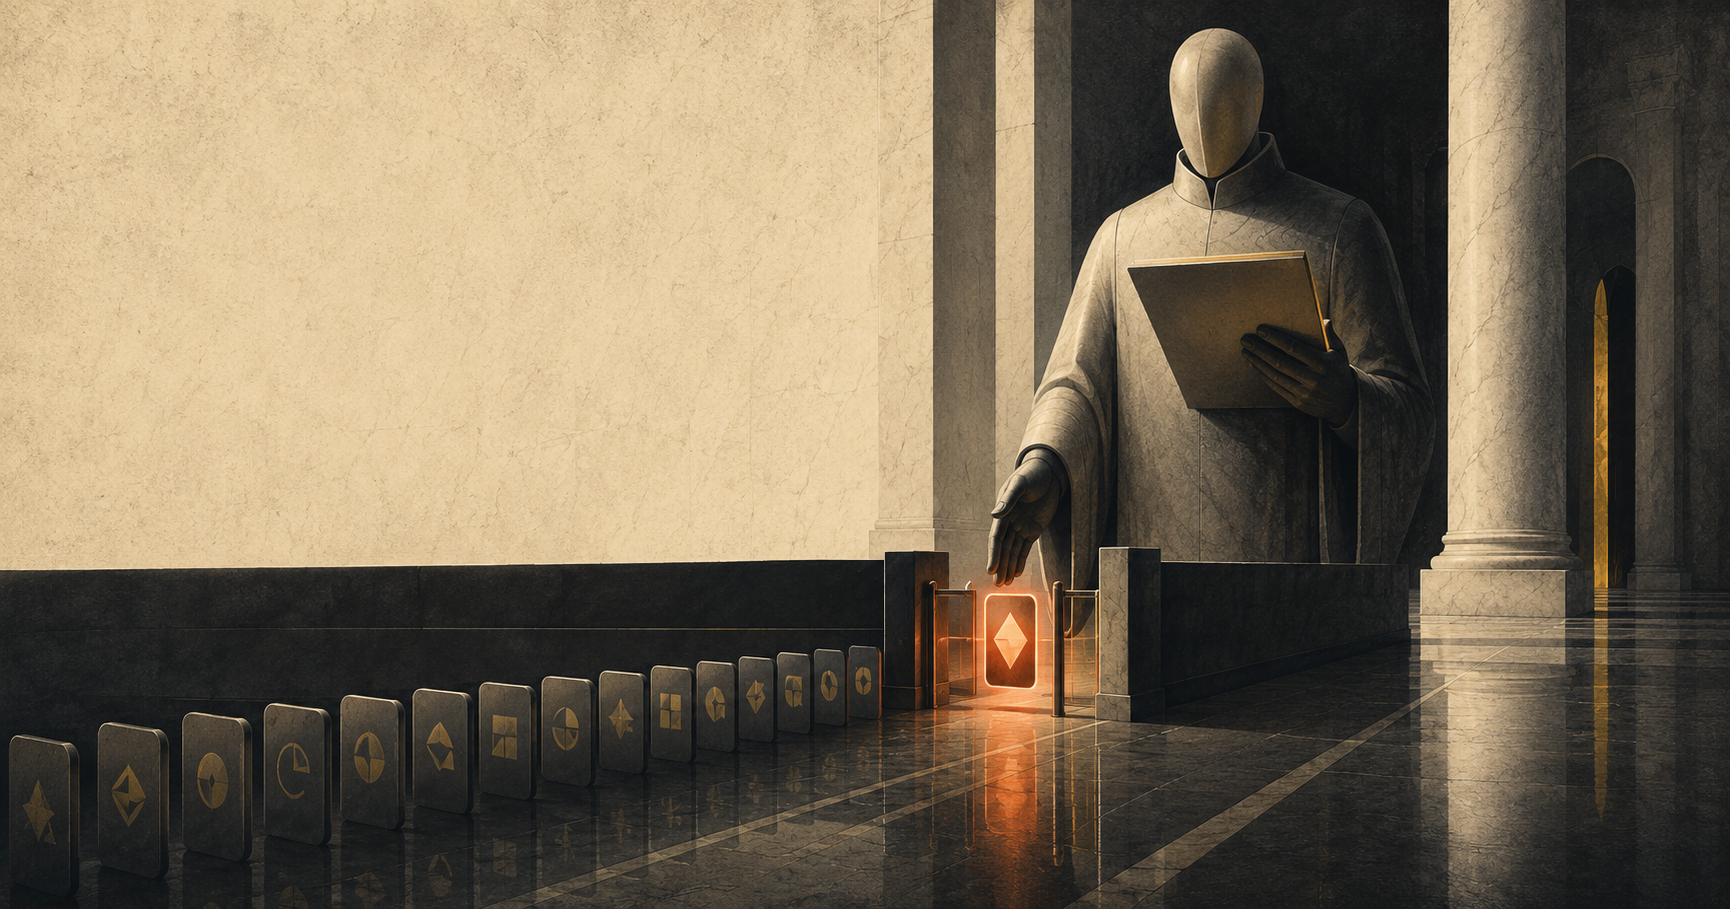
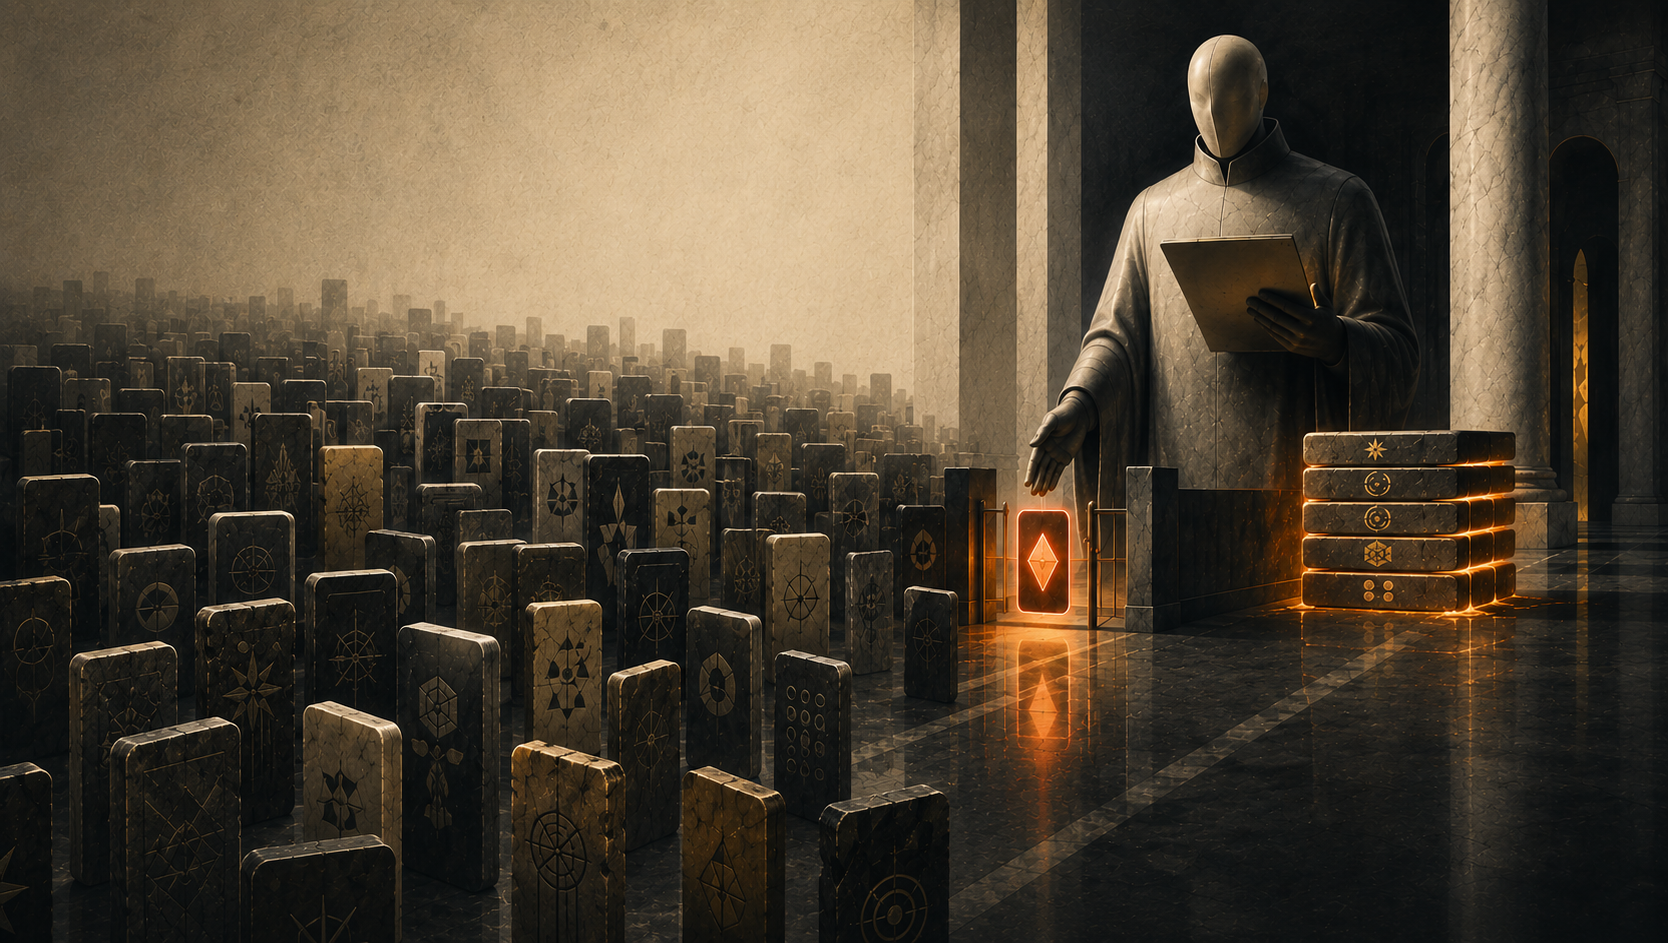
post(machine-attention-economy): stronger opener + new hero art
Opener now frames the two classic ways to win human attention (buy vs earn)
and turns on 'the buyer has no eyes, and none of that wiring.' New editorial
hero (vast field of capability-cards, one admitted) replaces the prior version;
alt text updated to match.

Claude-Session: https://claude.ai/code/session_01Cz3WXX62TqWdfBfjyzxAkx

diff --git a/src/posts/2026/machine-attention-economy/index.md b/src/posts/2026/machine-attention-economy/index.md
@@ -7,11 +7,15 @@ summary: "Skills marketplaces are becoming the first visible exchanges for a new
 description: "AI agents create an attention economy upstream of the human one, where the scarce resource is not notice but admission to their trusted decision loop."
 ---
 
-![A vast, dim marble hall with no people in it.  A tall, faceless machine sentinel with no eyes holds a glowing ledger beside a low turnstile, reaching toward a single capability-card that glows warm rust-orange, the only real light in the room, while a long line of identical dim cards waits its turn in the shadows.](./og.png)
+![A vast, dim marble hall.  A faceless machine sentinel with no eyes holds a ledger and reaches toward a low gate, where a single capability-card glows warm rust-orange, the brightest thing in the room.  Stretching away into the fog stands a huge silent field of other cards, each stamped with a different sigil, waiting unchosen, while beside the gate a stack of already-admitted cards glows as it accumulates.](./og.png)
 
-Companies have spent thirty years learning how to be seen.  Search rankings, ad budgets, the perfect headline, all of it a fight over one scarce thing: a person's attention.  The next fight is already under way, and it's stranger, because the buyer you have to win over now has no eyes.  When an AI agent books the trip, picks the vendor, or assembles the software stack, it settles on a few options to trust and drops the rest before any human sees a screen.  I build the systems where that choice gets made, and after watching it run a few thousand times, I can tell you it looks a lot like the old attention economy, moved to a room the customer never enters.
+Companies have spent thirty years learning how to be seen.  Sometimes they buy attention with ad budgets.  Sometimes they earn it through search rankings, reputation, word of mouth, and the perfect headline.  Both routes aim at the same target: a human nervous system that feels social proof, fears missing out, trusts a familiar name, and follows a crowd.
 
-That old economy ran on a simple loop.  Turn notice into traffic, traffic into data, and data into money.  AI agents are opening a second attention economy upstream of the first, and it begins before a person sees any options at all.
+The next fight is already under way, and it is stranger, because the buyer you now have to win over has no eyes.  The old signals can still matter, but the nervous system they were built to move is gone.  When an AI agent books the trip, picks the vendor, or assembles the software stack, it narrows the field to a few trusted options and drops the rest before any human sees a screen.
+
+I build the systems where that choice gets made.  After watching it happen a few thousand times, I can tell you it looks a lot like the old attention economy, moved to a room the customer never enters.
+
+That old economy turned notice into traffic, traffic into data, and data into money.  AI agents are opening a second attention economy upstream of the first.  It begins before a person sees any options at all.
 
 The first exchanges in this new economy don't look like ad exchanges.  They look like plugin directories.
 
